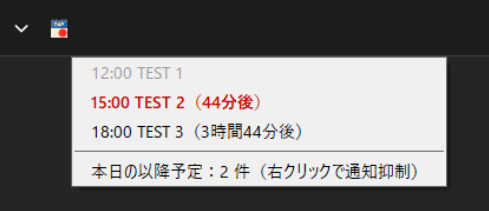
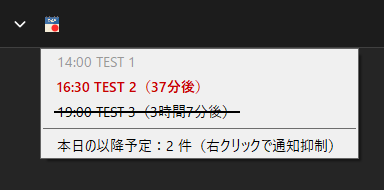
予定一覧の画像を差し替え通知抑制の説明を補う
新しい画像には通知を止めた予定の取り消し線と、画面上の「通知抑制」の
語が写る。README の語と画面の語が食い違うと迷うため、機能一覧の見出しへ
画面の語を併記し、取り消し線の表示も説明へ加える。

Changed region(s): [[0.0, 0.2368, 1.0, 0.8947], [0.0938, 0.0789, 0.1562, 0.1842], [0.0312, 0.1053, 0.0625, 0.1579]]

diff --git a/README.en.md b/README.en.md
@@ -21,7 +21,7 @@ Measured physical memory usage is about 10 MB or less.
   - Past events: display can be toggled on or off
   - Next event: shown in bold (turns red when within the configured time)
   - Browser display: clicking an event or the footer opens it in the browser
-  - Stopping notifications: right-clicking an event stops notifications for it
+  - Notification suppression (stopping notifications): right-clicking an event stops notifications for it and shows it with a strikethrough
 - Multiple calendar support: handles events from external calendars alongside your main calendar
 
 ### System tray
